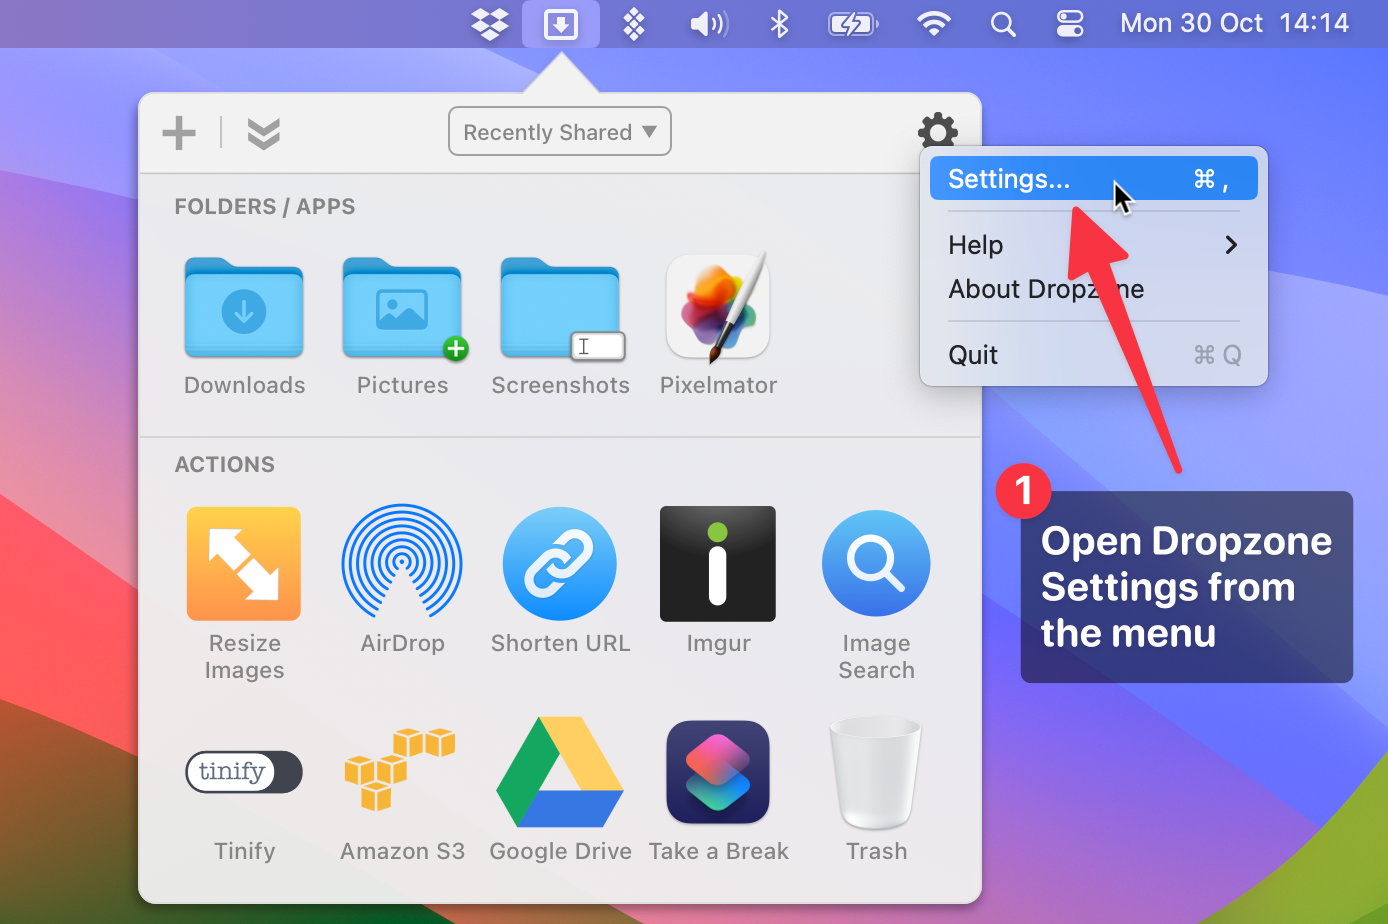
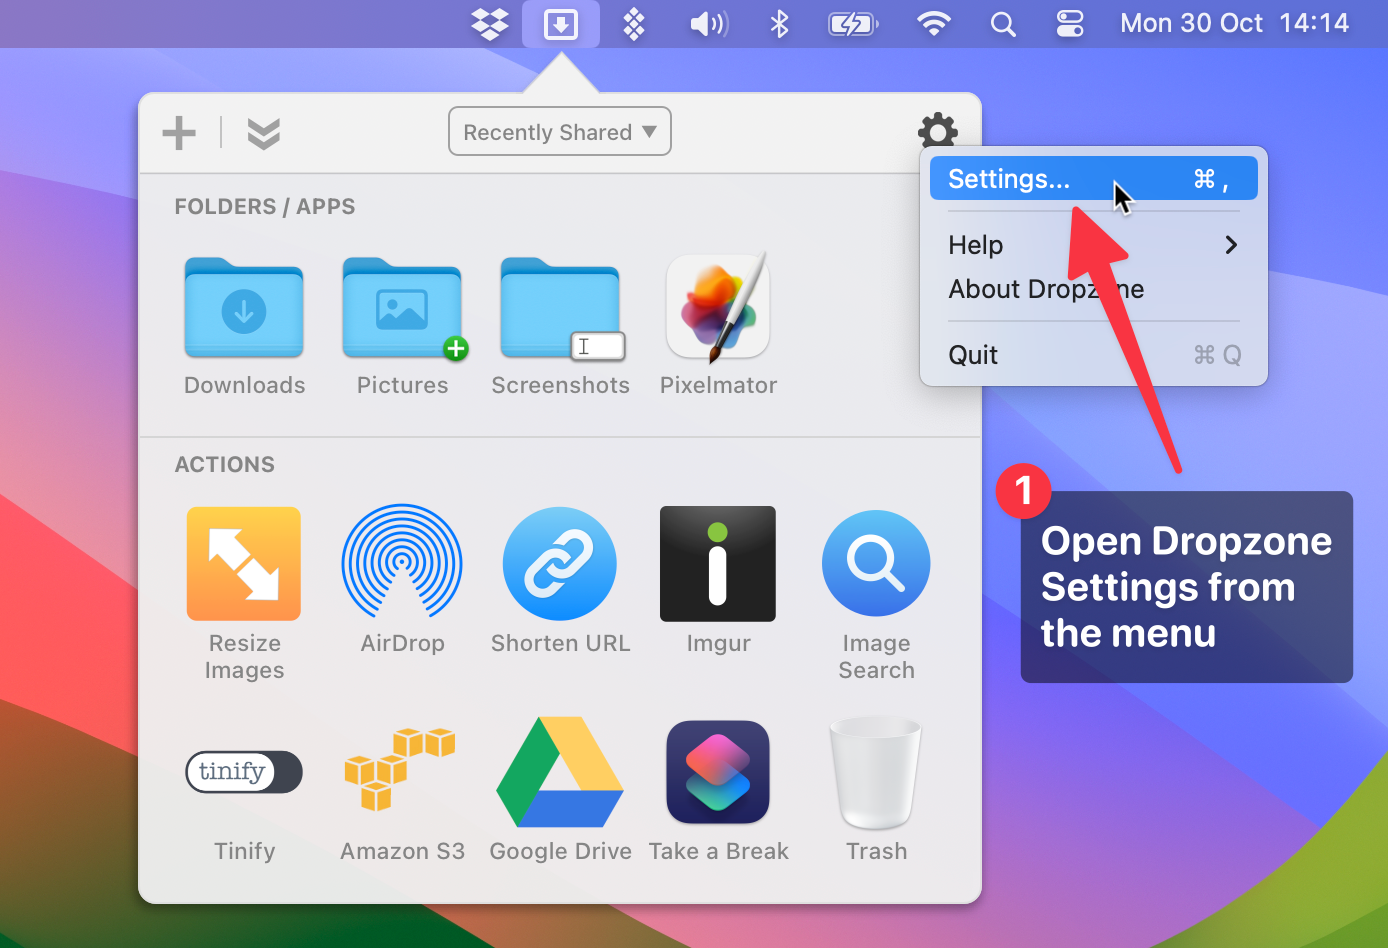
update registration-guide.tsx and registration-step1.webp

diff --git a/components/support/registration-guide.tsx b/components/support/registration-guide.tsx
@@ -48,7 +48,7 @@ export default function RegistrationGuide() {
             src="/registration-step1.webp"
             alt="Registration Step 1"
             width={694}
-            height={462}
+            height={480}
             quality={100}
           />
           <br />
